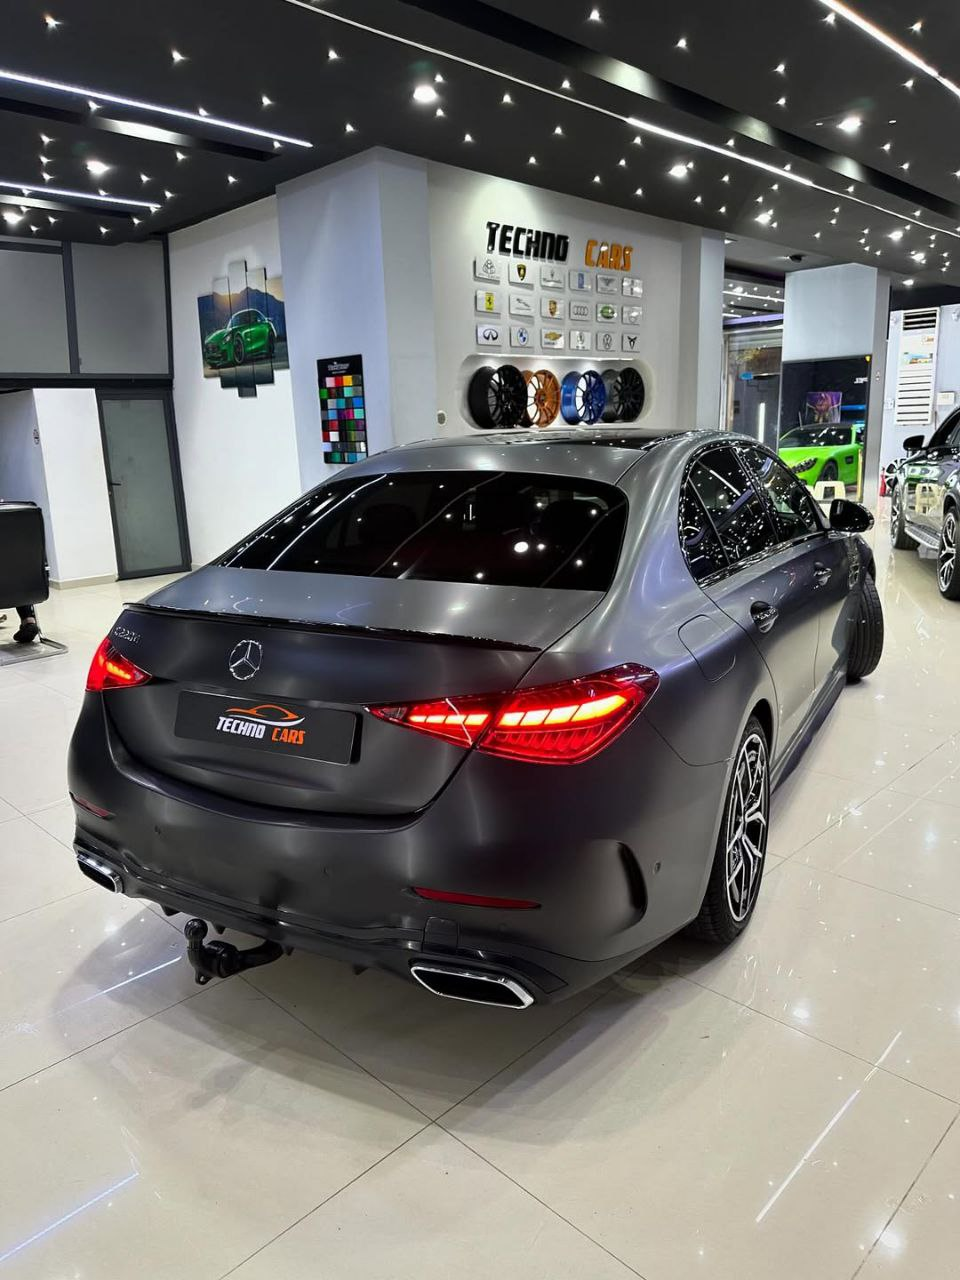
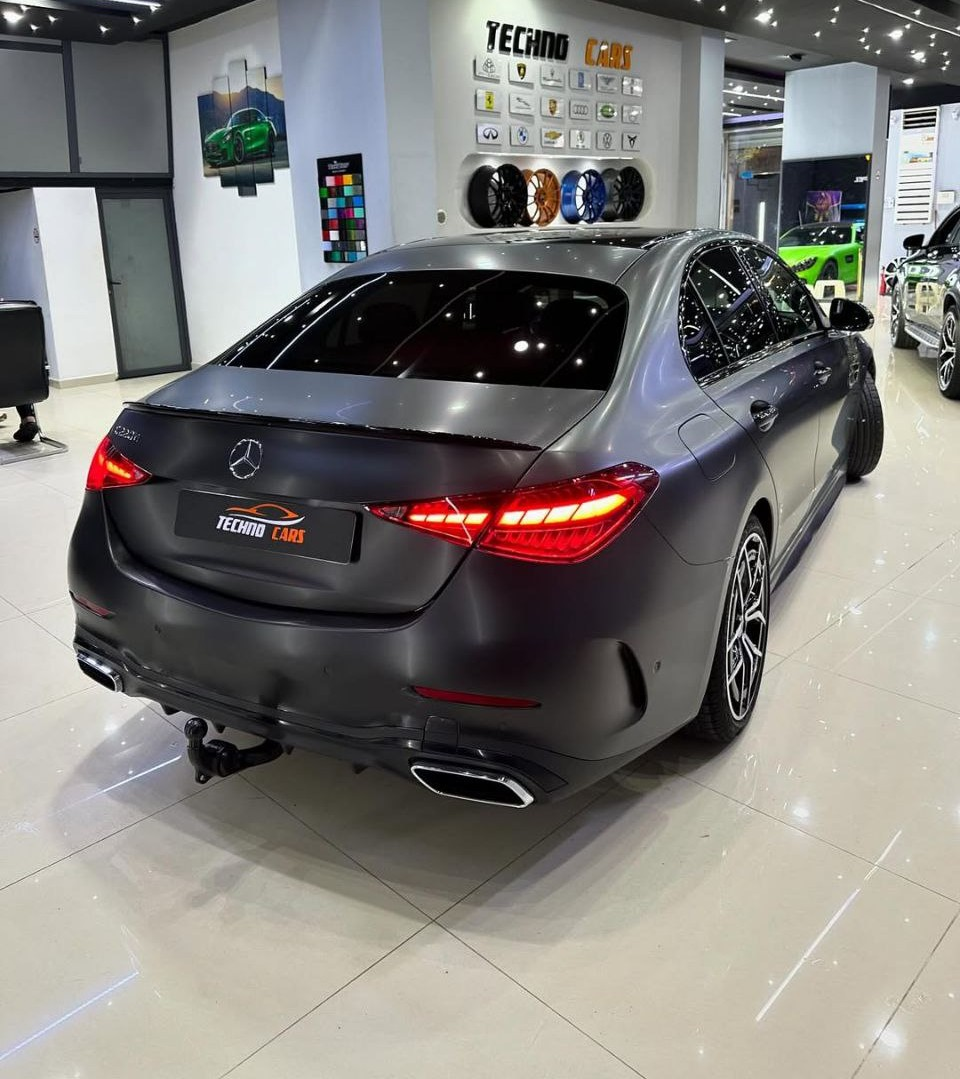
cfdrt

diff --git a/client/src/data/cars.ts b/client/src/data/cars.ts
@@ -147,7 +147,7 @@ export const cars: Car[] = [
     name: "Mercedes Classe C Nouvelle", 
     category: "Berline Premium",
     pricePerDay: 50000,
-    image: "/images/cars/mercedes-class-c/class-c1.jpg",
+    image: "/images/cars/mercedes-class-c/class-c4.jpg",
     gallery: [
       "/images/cars/mercedes-class-c/class-c1.jpg",
       "/images/cars/mercedes-class-c/class-c2.jpg",
